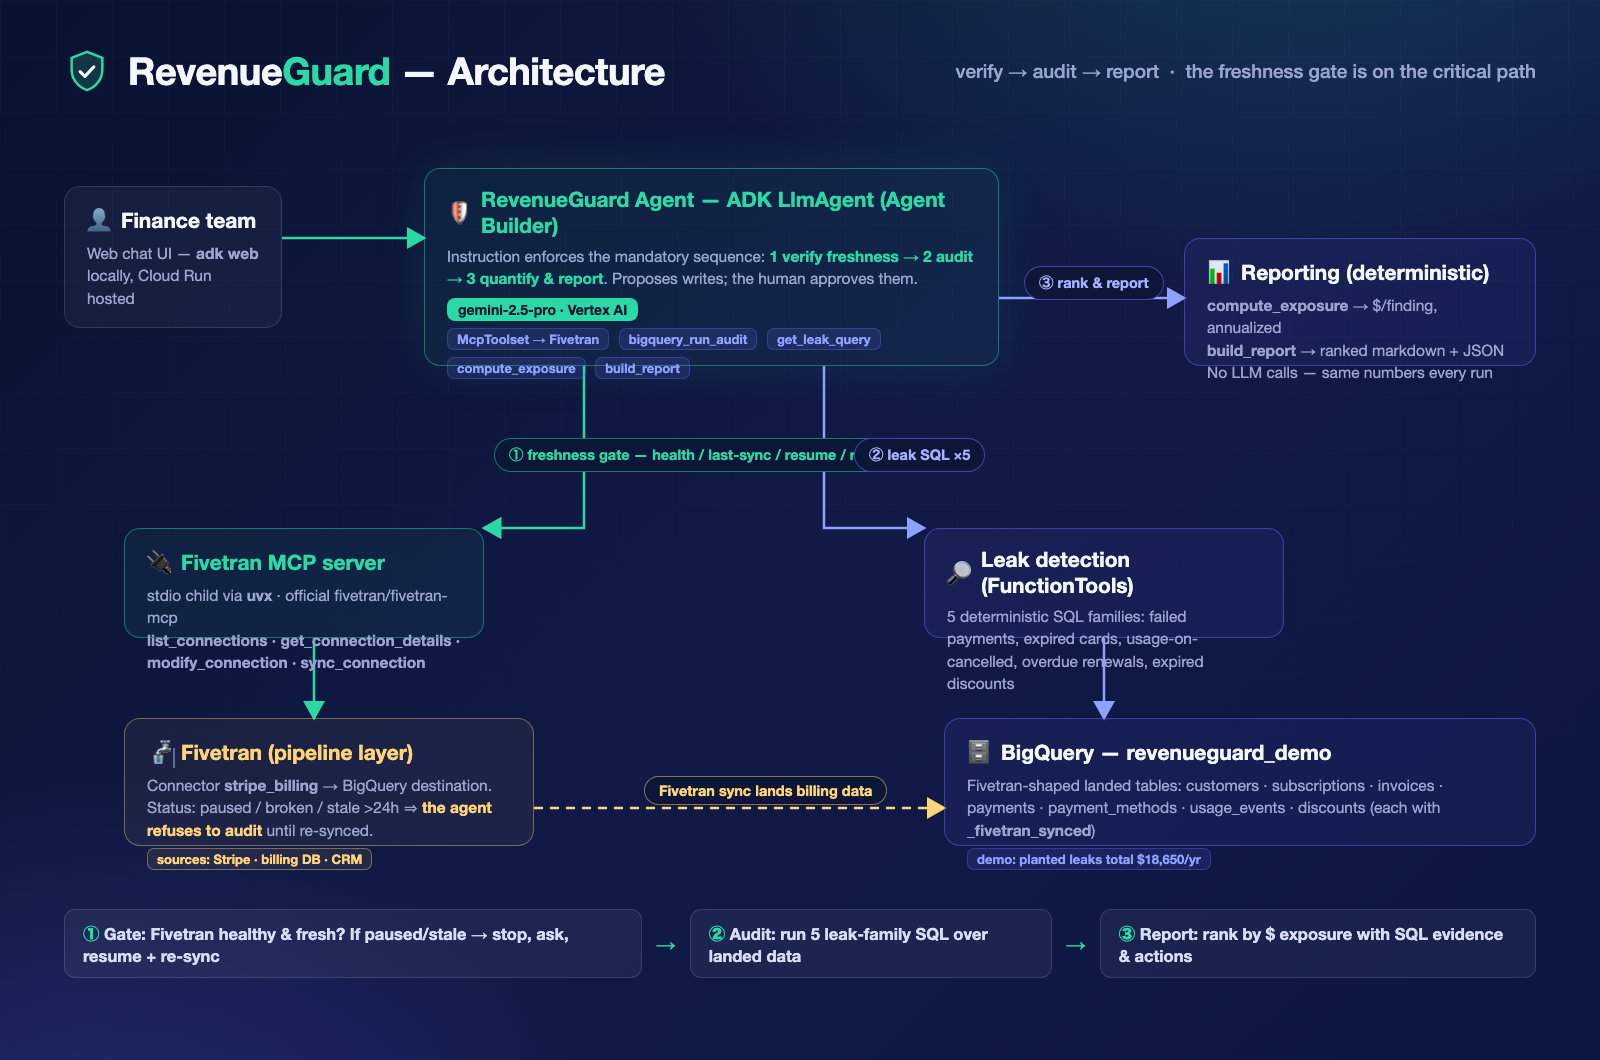
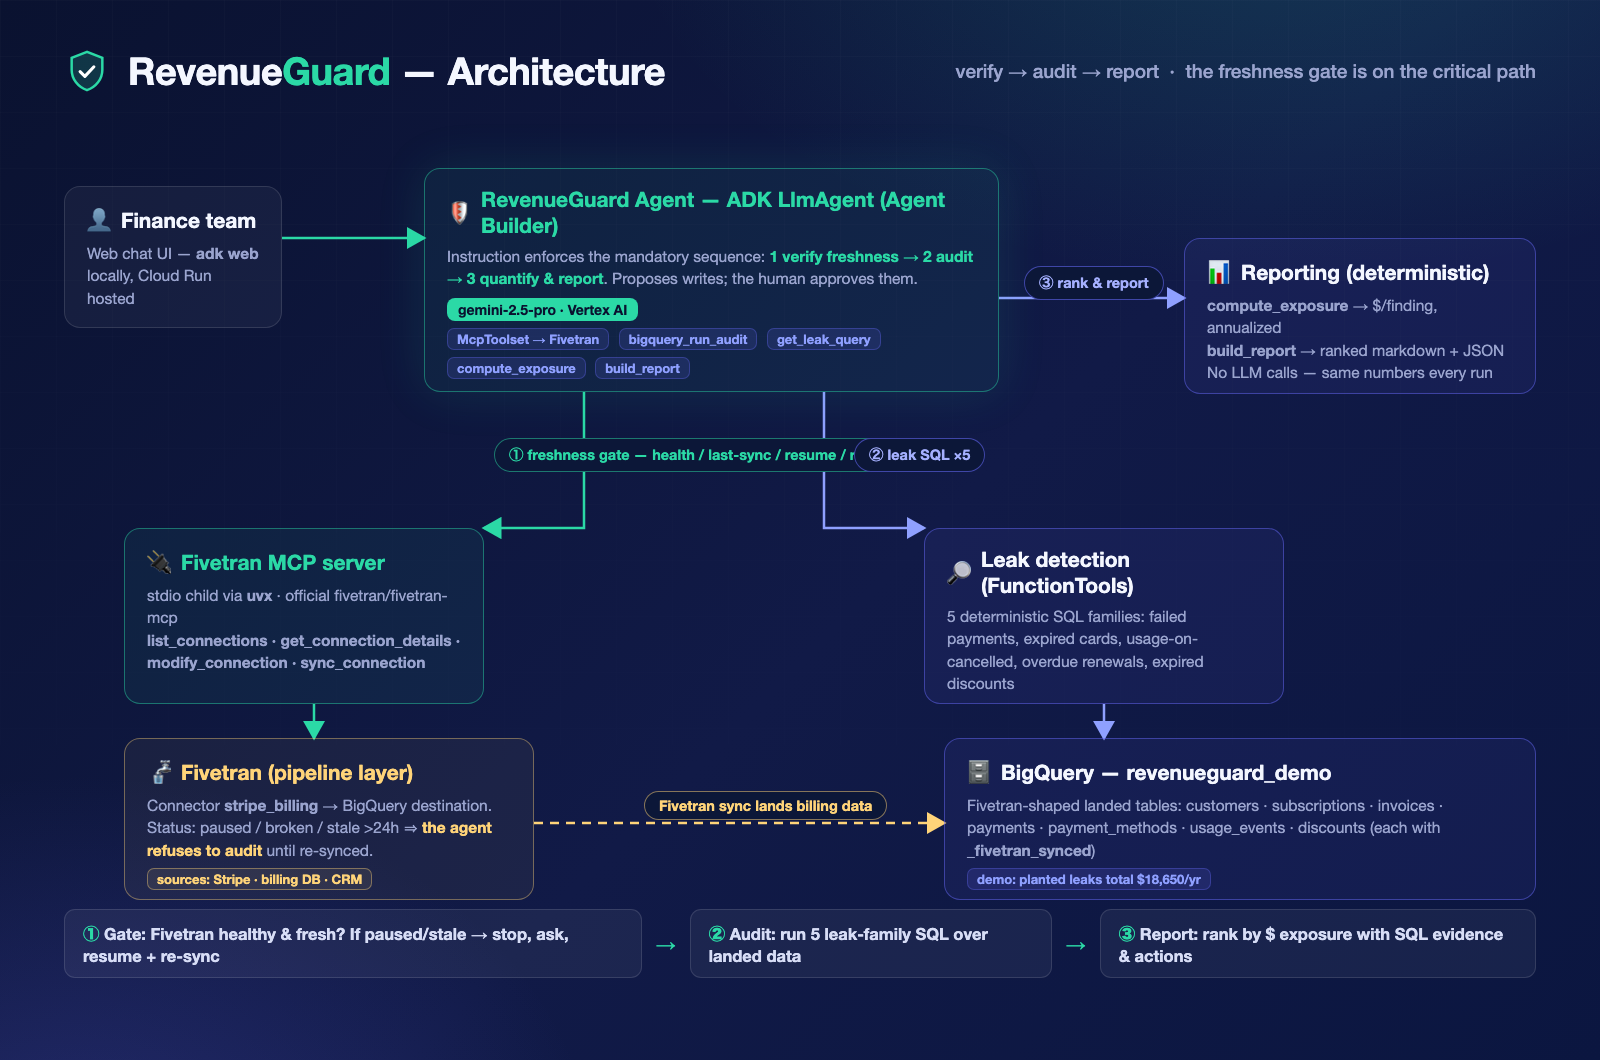
Fix architecture diagram overflow, deploy to Cloud Run, add live URL
- diagram: enlarge all boxes so text fits (verified programmatically), re-route wires
- Dockerfile: install deps directly + uv/uvx, warm MCP cache, dedicated agents dir
- main.py: ADK_AGENTS_DIR override so only the agent app is listed
- agent.py: FIVETRAN_MCP_DIR override for container layout
- README/SUBMISSION: live Cloud Run URL

diff --git a/deploy/architecture.html b/deploy/architecture.html
@@ -68,19 +68,19 @@
     <!-- user -> agent -->
     <path d="M 218 130 H 360" stroke="#2BD9A6" stroke-width="2.5" fill="none" marker-end="url(#ag)"/>
     <!-- agent -> fivetran mcp (left down) -->
-    <path d="M 520 258 V 420 H 420" stroke="#2BD9A6" stroke-width="2.5" fill="none" marker-end="url(#ag)"/>
+    <path d="M 520 284 V 420 H 420" stroke="#2BD9A6" stroke-width="2.5" fill="none" marker-end="url(#ag)"/>
     <!-- fivetran mcp -> fivetran cloud -->
-    <path d="M 250 530 V 610" stroke="#2BD9A6" stroke-width="2.5" fill="none" marker-end="url(#ag)"/>
+    <path d="M 250 596 V 630" stroke="#2BD9A6" stroke-width="2.5" fill="none" marker-end="url(#ag)"/>
     <!-- fivetran cloud -> bigquery (sync) -->
-    <path d="M 470 700 H 880" stroke="#FFD479" stroke-width="2.5" stroke-dasharray="9 7" fill="none" marker-end="url(#aw)"/>
+    <path d="M 470 715 H 880" stroke="#FFD479" stroke-width="2.5" stroke-dasharray="9 7" fill="none" marker-end="url(#aw)"/>
     <!-- agent -> bigquery tools (right down) -->
-    <path d="M 760 258 V 420 H 860" stroke="#8FA0FF" stroke-width="2.5" fill="none" marker-end="url(#ap)"/>
+    <path d="M 760 284 V 420 H 860" stroke="#8FA0FF" stroke-width="2.5" fill="none" marker-end="url(#ap)"/>
     <!-- bigquery tools -> dataset -->
-    <path d="M 1040 530 V 610" stroke="#8FA0FF" stroke-width="2.5" fill="none" marker-end="url(#ap)"/>
+    <path d="M 1040 596 V 630" stroke="#8FA0FF" stroke-width="2.5" fill="none" marker-end="url(#ap)"/>
     <!-- agent -> report tools (far right) -->
     <path d="M 935 190 H 1120" stroke="#8FA0FF" stroke-width="2.5" fill="none" marker-end="url(#ap)"/>
     <!-- sources -> fivetran cloud -->
-    <path d="M 110 640 V 660 " stroke="#5A66A0" stroke-width="2" fill="none"/>
+    
   </svg>
 
   <!-- User / UI -->
@@ -90,7 +90,7 @@
   </div>
 
   <!-- Agent -->
-  <div class="box green agent" style="left:360px;top:60px;width:575px;height:198px">
+  <div class="box green agent" style="left:360px;top:60px;width:575px;height:224px">
     <h3><span class="ic">🛡</span>RevenueGuard Agent — ADK LlmAgent (Agent Builder)</h3>
     <div class="d">Instruction enforces the mandatory sequence: <b style="color:#2BD9A6">1 verify freshness → 2 audit → 3 quantify &amp; report</b>. Proposes writes; the human approves them.</div>
     <span class="model">gemini-2.5-pro · Vertex AI</span>
@@ -107,36 +107,36 @@
   <div class="lbl" style="left:430px;top:330px">① freshness gate — health / last-sync / resume / re-sync</div>
   <div class="lbl purple" style="left:790px;top:330px">② leak SQL ×5</div>
   <div class="lbl purple" style="left:960px;top:158px">③ rank &amp; report</div>
-  <div class="lbl gold" style="left:580px;top:668px">Fivetran sync lands billing data</div>
+  <div class="lbl gold" style="left:580px;top:683px">Fivetran sync lands billing data</div>
 
   <!-- Fivetran MCP -->
-  <div class="box green" style="left:60px;top:420px;width:360px;height:110px">
+  <div class="box green" style="left:60px;top:420px;width:360px;height:176px">
     <h3><span class="ic">🔌</span>Fivetran MCP server</h3>
     <div class="d">stdio child via <b>uvx</b> · official fivetran/fivetran-mcp<br>
     <b>list_connections · get_connection_details · modify_connection · sync_connection</b></div>
   </div>
 
   <!-- BigQuery tools -->
-  <div class="box blue" style="left:860px;top:420px;width:360px;height:110px">
+  <div class="box blue" style="left:860px;top:420px;width:360px;height:176px">
     <h3><span class="ic">🔎</span>Leak detection (FunctionTools)</h3>
     <div class="d">5 deterministic SQL families: failed payments, expired cards, usage-on-cancelled, overdue renewals, expired discounts</div>
   </div>
 
   <!-- Report tools -->
-  <div class="box blue" style="left:1120px;top:130px;width:352px;height:128px">
+  <div class="box blue" style="left:1120px;top:130px;width:352px;height:156px">
     <h3><span class="ic">📊</span>Reporting (deterministic)</h3>
     <div class="d"><b>compute_exposure</b> → $/finding, annualized<br><b>build_report</b> → ranked markdown + JSON<br>No LLM calls — same numbers every run</div>
   </div>
 
   <!-- Fivetran cloud -->
-  <div class="box gold" style="left:60px;top:610px;width:410px;height:128px">
+  <div class="box gold" style="left:60px;top:630px;width:410px;height:162px">
     <h3><span class="ic">🚰</span>Fivetran (pipeline layer)</h3>
     <div class="d">Connector <b>stripe_billing</b> → BigQuery destination.<br>Status: paused / broken / stale &gt;24h ⇒ <b style="color:#FFD479">the agent refuses to audit</b> until re-synced.</div>
     <span class="chip" style="color:#FFD479;border-color:rgba(255,212,121,.4);background:rgba(255,212,121,.08)">sources: Stripe · billing DB · CRM</span>
   </div>
 
   <!-- BigQuery dataset -->
-  <div class="box blue" style="left:880px;top:610px;width:592px;height:128px">
+  <div class="box blue" style="left:880px;top:630px;width:592px;height:162px">
     <h3><span class="ic">🗄</span>BigQuery — revenueguard_demo</h3>
     <div class="d">Fivetran-shaped landed tables: customers · subscriptions · invoices · payments · payment_methods · usage_events · discounts (each with <b>_fivetran_synced</b>)</div>
     <span class="chip">demo: planted leaks total $18,650/yr</span>

diff --git a/main.py b/main.py
@@ -8,9 +8,13 @@ import os
 
 from google.adk.cli.fast_api import get_fast_api_app
 
-# agents_dir = repo root; ADK finds the `revenueguard/` agent package under it.
+# agents_dir = repo root by default; ADK finds the `revenueguard/` agent package
+# under it. In the container, ADK_AGENTS_DIR points at a dir holding ONLY the
+# agent package so stray dirs (vendor/) don't show up as selectable apps.
 app = get_fast_api_app(
-    agents_dir=os.path.dirname(os.path.abspath(__file__)),
+    agents_dir=os.environ.get(
+        "ADK_AGENTS_DIR", os.path.dirname(os.path.abspath(__file__))
+    ),
     web=True,  # serve the ADK dev chat UI at / as the public demo surface
 )
 

diff --git a/revenueguard/agent.py b/revenueguard/agent.py
@@ -25,7 +25,13 @@ load_dotenv()
 _MODEL = os.environ.get("RG_MODEL", "gemini-2.5-pro")
 
 # Absolute path to the vendored Fivetran MCP server (resolved regardless of cwd).
-_MCP_DIR = pathlib.Path(__file__).resolve().parent.parent / "vendor" / "fivetran-mcp"
+# FIVETRAN_MCP_DIR overrides for containers where the repo layout differs.
+_MCP_DIR = pathlib.Path(
+    os.environ.get(
+        "FIVETRAN_MCP_DIR",
+        pathlib.Path(__file__).resolve().parent.parent / "vendor" / "fivetran-mcp",
+    )
+)
 
 # ---------------------------------------------------------------------------
 # Fivetran MCP toolset — the partner integration the judges grade.

diff --git a/SUBMISSION.md b/SUBMISSION.md
@@ -2,7 +2,7 @@
 
 **Tagline:** An agentic revenue-leak auditor for B2B SaaS finance teams — it verifies your data is fresh *before* it trusts it.
 
-**Try it out:** Live demo → `<CLOUD_RUN_URL>` · GitHub → `<REPO_URL>` · Video → `<VIDEO_URL>`
+**Try it out:** Live demo → https://revenueguard-273367103135.us-central1.run.app · GitHub → https://github.com/SebAustin/revenueguard · Video → `<VIDEO_URL>`
 
 ---
 

diff --git a/README.md b/README.md
@@ -4,6 +4,7 @@
 
 ![RevenueGuard — $18,650/yr recovered across 5 leak families](docs/thumbnail.png)
 
+> 🚀 **Live demo:** https://revenueguard-273367103135.us-central1.run.app — pick the `revenueguard` app and ask: *"Audit my revenue for leaks across all five leak families."*
 > 🎬 Pitch video: [`deploy/revenueguard_pitch.mp4`](deploy/revenueguard_pitch.mp4) *(YouTube link coming with the submission)*
 
 ---
